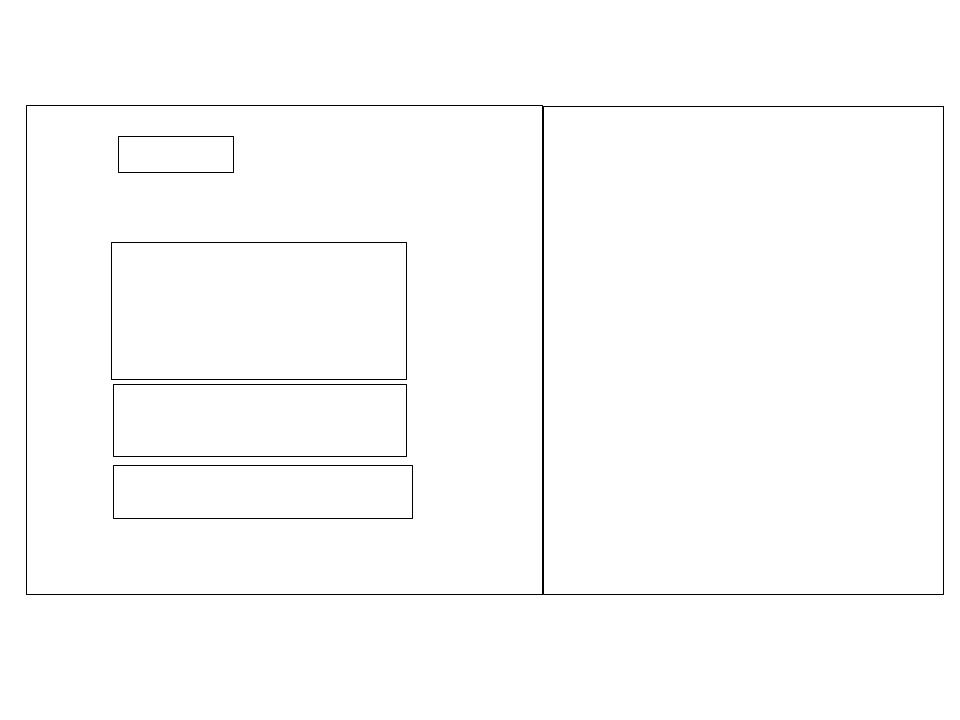
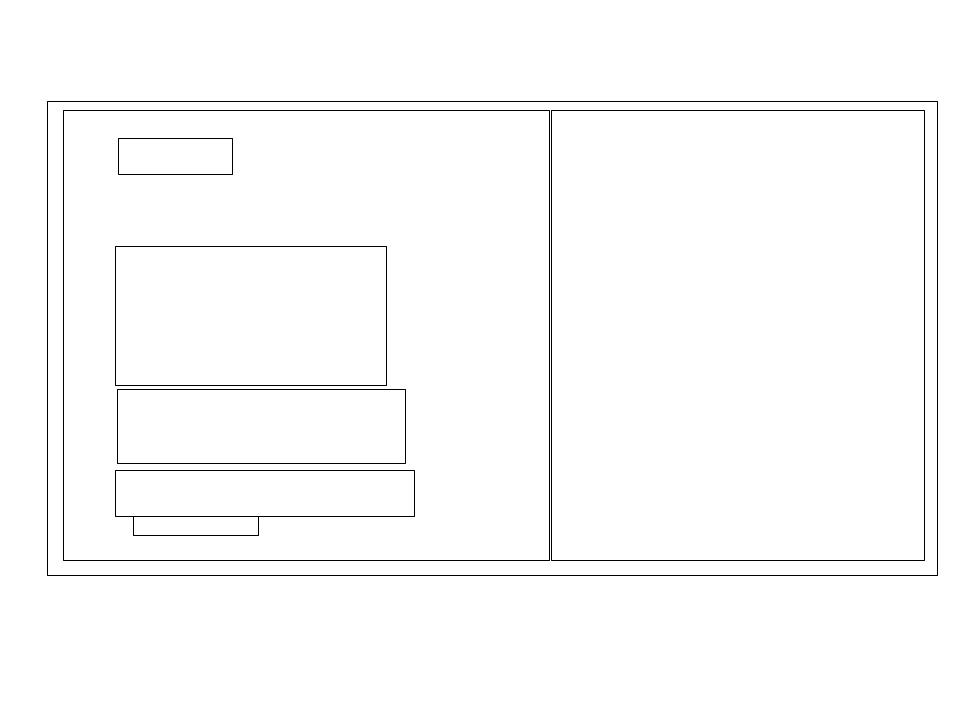
update index.html_1, reset.css_1

diff --git a/index.html b/index.html
@@ -1,27 +1,35 @@
 <!DOCTYPE html>
 <html lang="en">
 <head>
-  <meta charset="UTF-8" />
+  <meta charset="UTF-8"/>
   <title>Frontend Mentor | Base Apparel coming soon page</title>
-  <meta name="viewport" content="width=device-width, initial-scale=1.0" />
-  <meta name="keywords" content="Base Apparel coming soon page solution" />
-  <meta name="description" content=" Base Apparel coming soon page challenge on Frontend Mentor" />
-  <link rel="icon" type="image/png" sizes="32x32" href="./images/favicon-32x32.png" />
-  <!--<link rel="stylesheet" href="main.css" />-->
+  <meta name="viewport" content="width=device-width, initial-scale=1.0"/>
+  <meta name="keywords" content="Base Apparel coming soon page solution"/>
+  <meta name="description" content=" Base Apparel coming soon page challenge on Frontend Mentor"/>
+  <link rel="icon" type="image/png" sizes="32x32" href="./images/favicon-32x32.png"/>
+  <!--<link rel="stylesheet" href="main.css"/>-->
   <!--<script defer src="main.js"></script>-->
 </head>
 <body>
     <div class="grid_container">
         <!--1st component-->
-       
+        <header class="header">
+            <h1 class="sr-only">Base apparel</h1>
+            <a class="header__logo" href="#home" aria-label="Base apparel"><img class="logo_icon" src="images/logo.svg" alt="Base apparel"/></a>
+            <picture class="header__image">
+                <source media="(max-width: 47.9375rem)" srcset="images/hero-mobile.jpg">
+                <source media="(min-width: 48rem)" srcset="images/hero-desktop.jpg">
+                <img class="image" src="images/hero-desktop.jpg" alt="Women"/>
+            </picture>
+        </header>
         <!--2nd component-->
-        
-        <!--3rd component-->
-       
-       <!--4th component-->
+        <main>
+
+        </main>
+       <!--3rd component-->
         <footer class="attribution">
             Challenge by <a href="https://www.frontendmentor.io?ref=challenge" target="_blank">Frontend Mentor</a>. 
-            Coded by <a href="#">@Carlos & @Darionas</a>.
+            Coded by <a href="#">@Pra Pre & @Darionas</a>.
         </footer>
     </div>
 </body>

diff --git a/reset.css b/reset.css
@@ -12,19 +12,39 @@
   font: inherit;
 }
 
+/*--Remove list styles on ul, ol elements with a list role, which suggests default styling will be removed--*/
+ul[role='list'],
+ol[role='list'] {
+  list-style: none;
+}
+
 /*--Set core root defaults--*/
 html:focus-within {
    scroll-behavior: smooth;
 }
 
-/*--Make images easier to work with--*/
+/*--Set core body defaults--*/
+body {
+  min-height: 100vh;
+  text-rendering: optimizeSpeed;
+  line-height: 1.5;
+}
 
+/*--A elements that don't have a class get default styles--*/
+a:not([class]) {
+  text-decoration-skip-ink: auto;
+}
+
+/*--Make images easier to work with--*/
 img, picture {
     max-width: 100%;
     display: block;
 }
 
 /*--Inherit fonts for input and buttons--*/
-input, button, textarea, select {
+input,
+button,
+textarea,
+select {
     font: inherit;
 }
